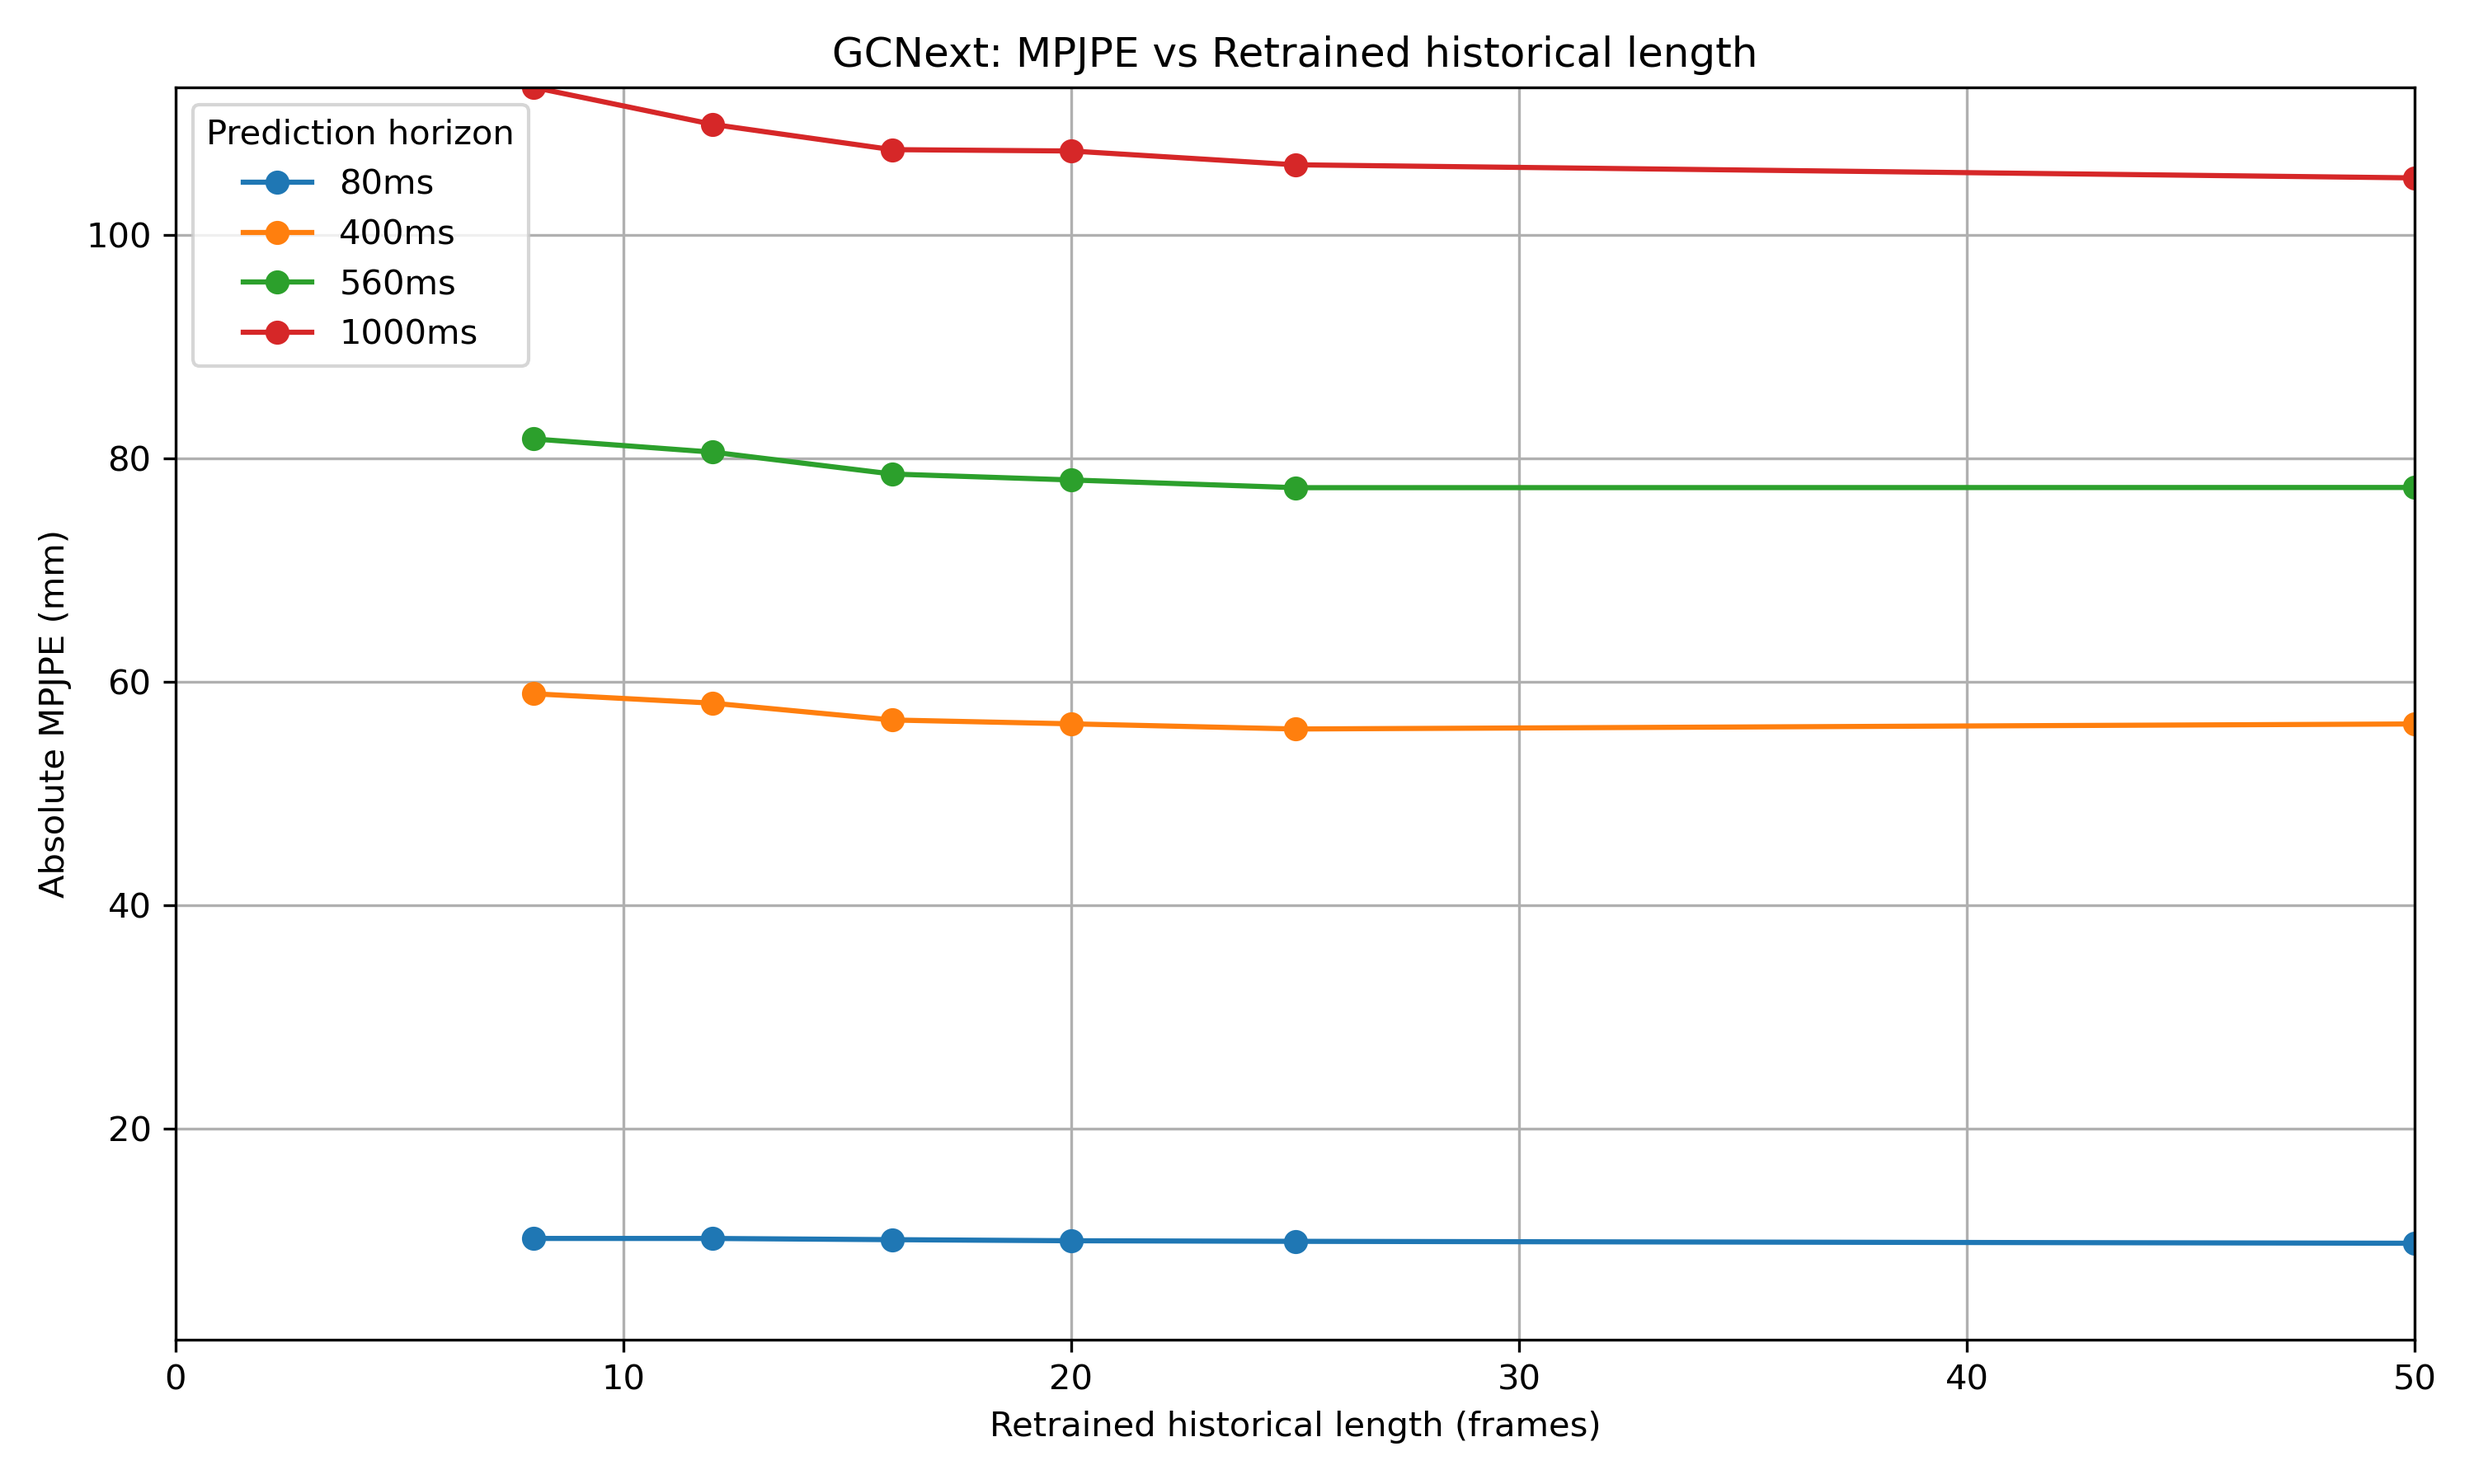
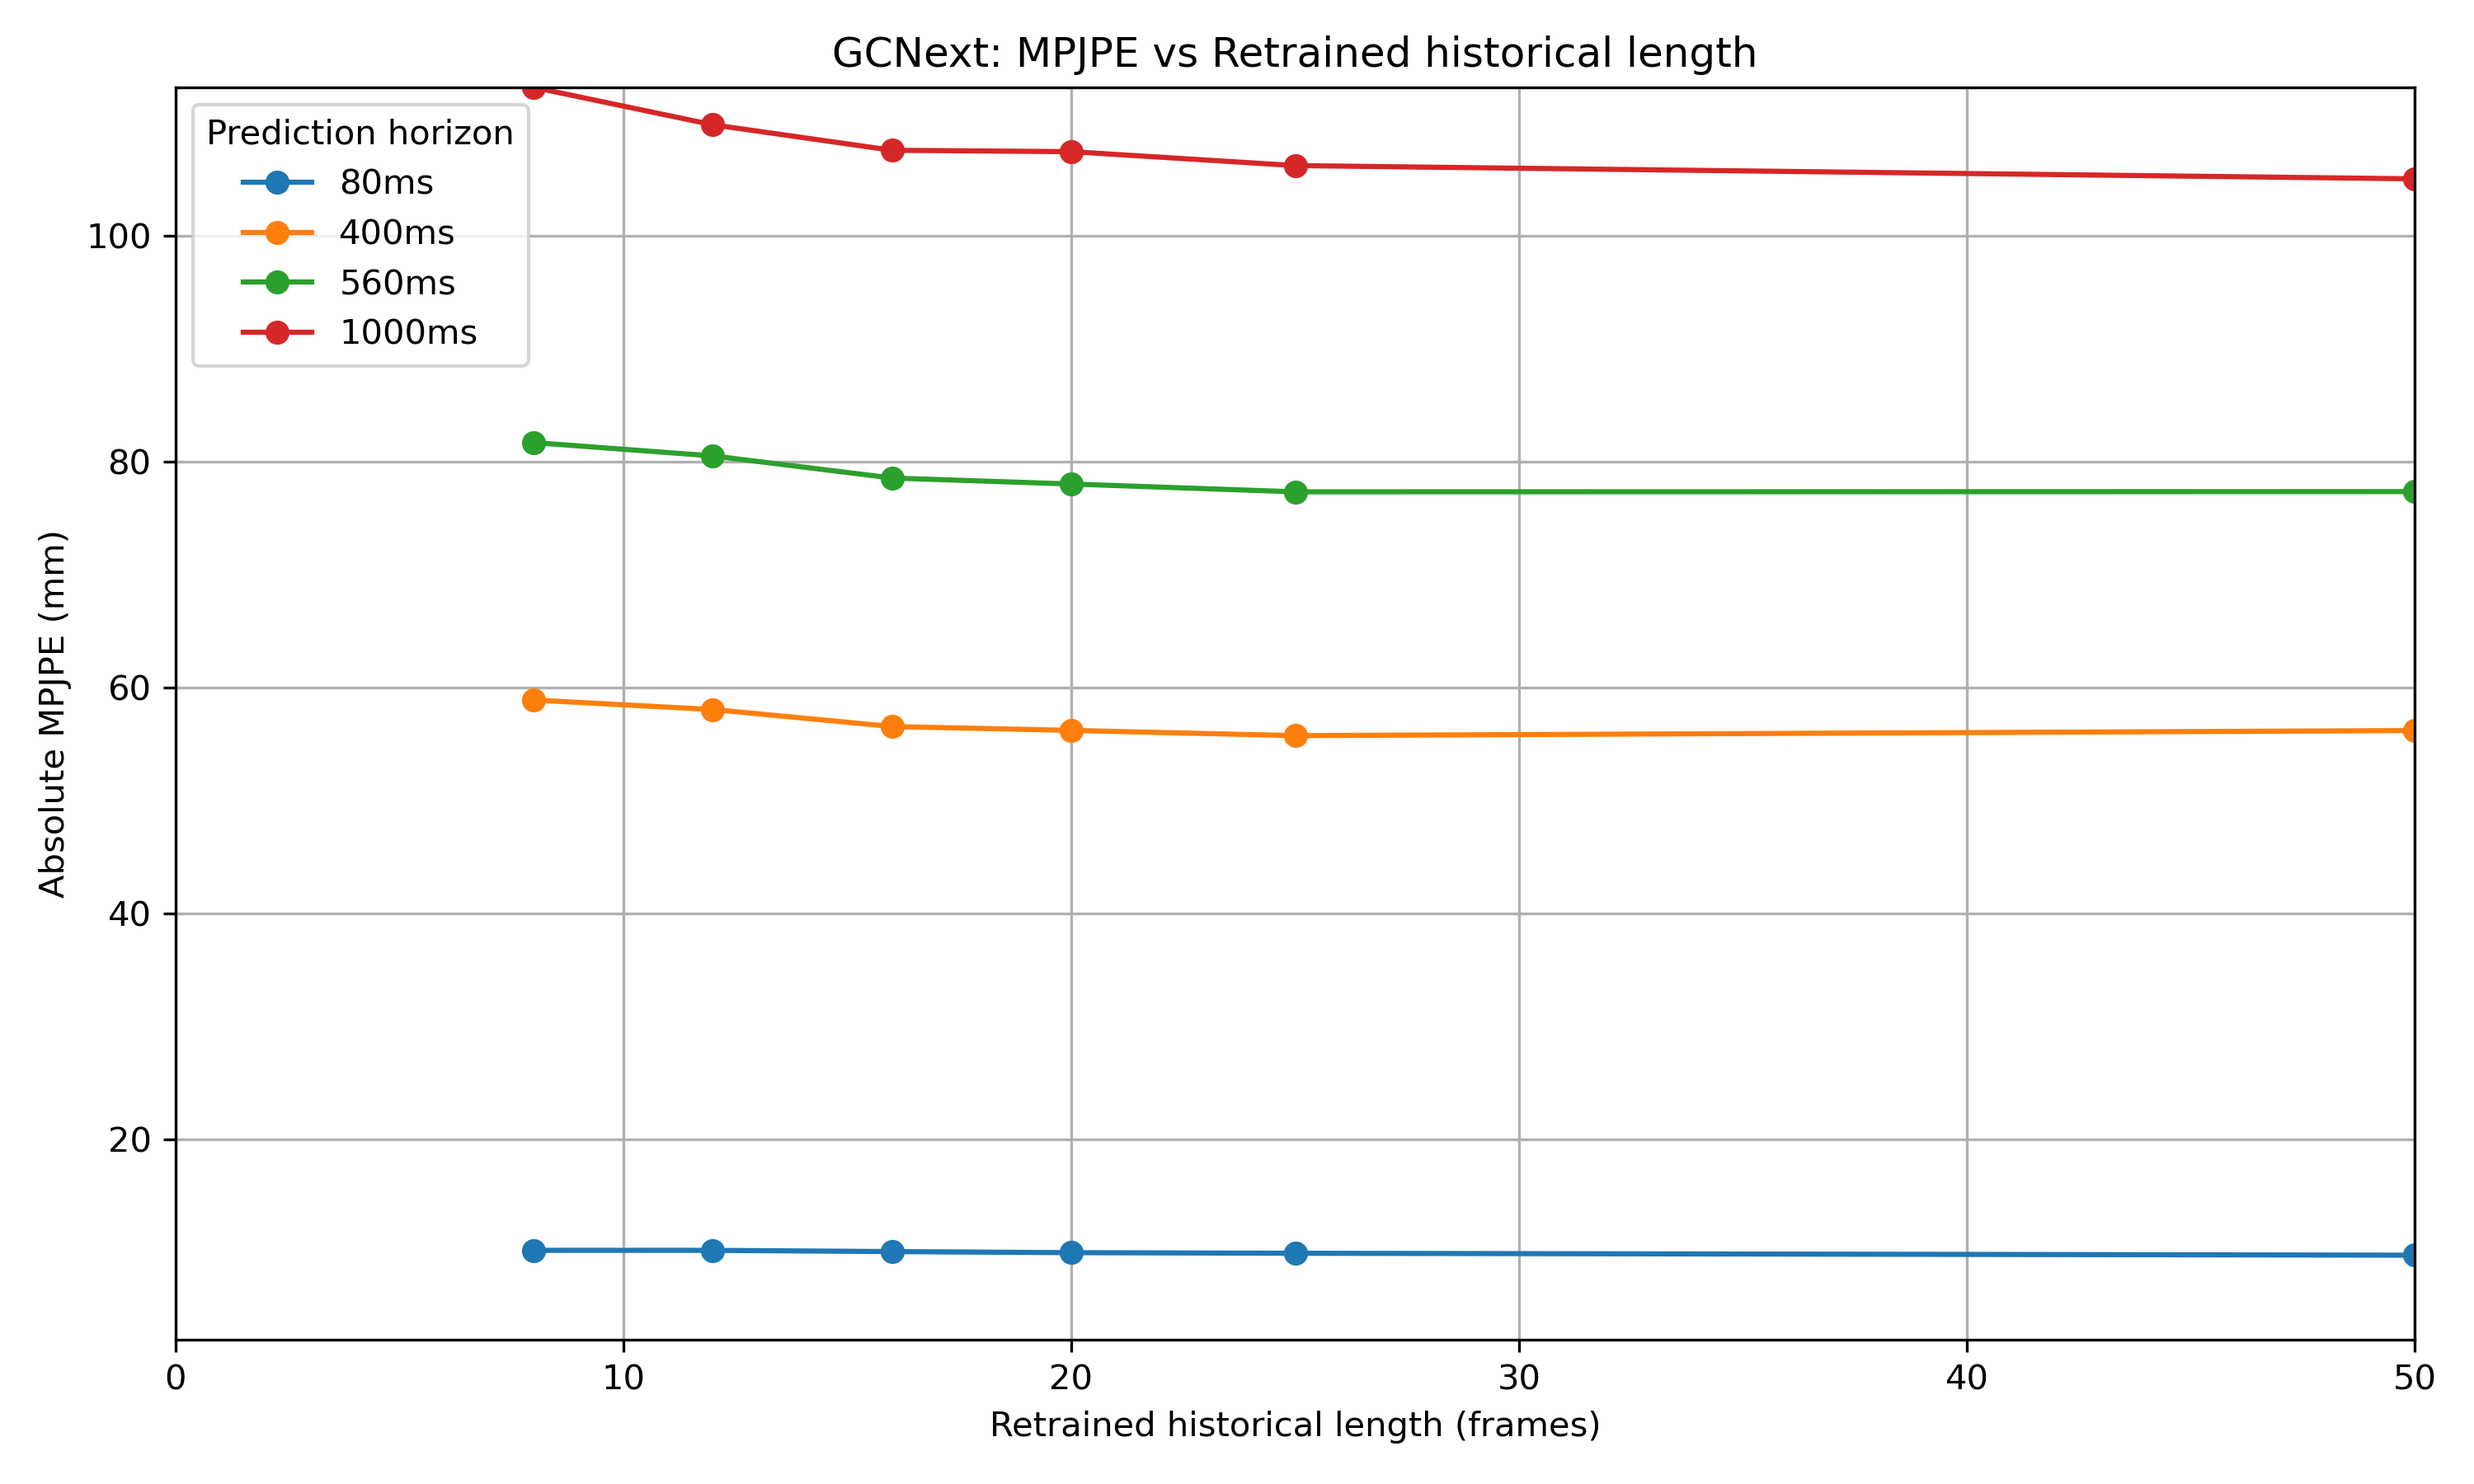
Fix incorrect physmop indices

diff --git a/exps/run/eval_different_lengths.py b/exps/run/eval_different_lengths.py
@@ -35,8 +35,8 @@ def get_physmop_metrics_at_latest_timestep(path, length):
     upper = parse_physmop_data(path, "upper body")
     lower = parse_physmop_data(path, "lower body")
     # Select columns for the 4 time horizons
-    upper = upper[:, [0, 1, 4, 7]]
-    lower = lower[:, [0, 1, 4, 7]]
+    upper = upper[:, [1, 4, 3, 7]]
+    lower = lower[:, [1, 4, 3, 7]]
     combined = np.mean([upper, lower], axis=0)  # shape: (length, 4)
     return combined[length-1]  # last timestep for given length
 
